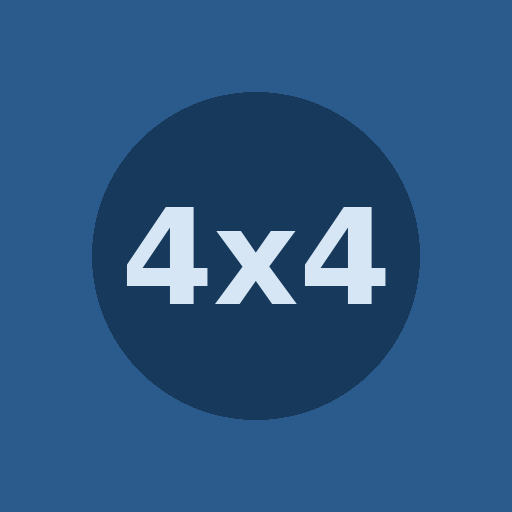
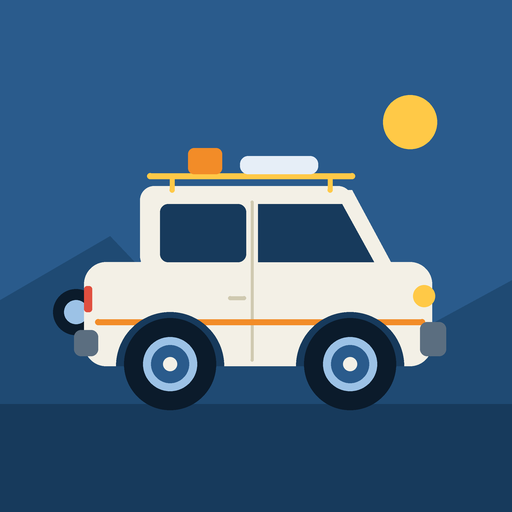
Add files via upload

diff --git a/index.html b/index.html
@@ -49,11 +49,13 @@
   button:active{opacity:0.85;}
   .err{font-size:12px;color:var(--danger);margin:8px 0 0;display:none;}
   .history{border:0.5px solid var(--border);border-radius:12px;overflow:hidden;}
-  .hrow{display:flex;justify-content:space-between;align-items:center;padding:10px 12px;font-size:13px;border-top:0.5px solid var(--border);gap:8px;}
+  .hrow{display:flex;justify-content:space-between;align-items:center;padding:10px 12px;border-top:0.5px solid var(--border);gap:10px;}
   .hrow:first-child{border-top:none;}
-  .hrow .date{color:var(--text-2);flex-shrink:0;}
-  .hrow .km{color:var(--text-2);flex-shrink:0;}
-  .hrow .cons{font-weight:600;flex-shrink:0;}
+  .hrow .main{display:flex;flex-direction:column;gap:2px;min-width:0;flex:1;}
+  .hrow .odo{font-size:16px;font-weight:600;}
+  .hrow .sub{font-size:12px;color:var(--text-2);}
+  .hrow .cons{font-size:14px;font-weight:600;text-align:right;flex-shrink:0;}
+  .hrow .cons.start{font-size:12px;font-weight:500;color:var(--text-2);}
   .empty{font-size:13px;color:var(--text-2);padding:1rem;margin:0;}
   .del-btn{
     width:26px;height:26px;min-width:26px;border-radius:50%;background:transparent;
@@ -115,18 +117,19 @@ function fmt1(n){ return (Math.round(n*10)/10).toLocaleString('es-ES'); }
 
 function persist(){ localStorage.setItem(KEY, JSON.stringify(entries)); }
 
+function fmtDate(s){ const p = s.split('-'); return p.length===3 ? p[2]+'/'+p[1]+'/'+p[0] : s; }
+function fmtKm(n){ return n.toLocaleString('es-ES', {maximumFractionDigits:1}); }
+
 function render(){
   const sorted = [...entries].sort((a,b)=>a.km-b.km);
-  let totalKm=0, totalLiters=0, rows=[];
+  let totalKm=0, totalLiters=0;
 
-  for(let i=1;i<sorted.length;i++){
-    const dKm = sorted[i].km - sorted[i-1].km;
-    const liters = sorted[i].liters;
-    if(dKm>0){
-      totalKm += dKm; totalLiters += liters;
-      rows.push({...sorted[i], dKm, cons:(liters/dKm)*100});
-    }
-  }
+  const rows = sorted.map((e,i)=>{
+    if(i===0) return {...e, first:true};
+    const dKm = e.km - sorted[i-1].km;
+    totalKm += dKm; totalLiters += e.liters;
+    return {...e, dKm, cons:(e.liters/dKm)*100};
+  });
 
   $('km').textContent = totalKm ? fmt1(totalKm)+' km' : '–';
   $('liters').textContent = totalLiters ? fmt1(totalLiters)+' L' : '–';
@@ -135,16 +138,21 @@ function render(){
   const hist = $('history');
   hist.innerHTML = '';
   if(rows.length===0){
-    hist.appendChild($('empty'));
+    hist.innerHTML = '<p class="empty">Todavía no hay repostajes. Añade el primero para calcular el consumo.</p>';
     return;
   }
   rows.reverse().forEach(r=>{
     const el = document.createElement('div');
     el.className='hrow';
-    el.innerHTML = `<span class="date">${r.date}</span>
-      <span class="km">${Math.round(r.dKm)} km · ${fmt1(r.liters)} L</span>
-      <span class="cons">${fmt1(r.cons)} L/100km</span>
-      <button class="del-btn" data-km="${r.km}" title="Eliminar este repostaje">✕</button>`;
+    const detail = r.first
+      ? fmtDate(r.date)+' · '+fmt1(r.liters)+' L'
+      : fmtDate(r.date)+' · +'+fmtKm(r.dKm)+' km · '+fmt1(r.liters)+' L';
+    const cons = r.first
+      ? '<span class="cons start">Punto de partida</span>'
+      : '<span class="cons">'+fmt1(r.cons)+' L/100km</span>';
+    el.innerHTML = '<div class="main"><span class="odo">'+fmtKm(r.km)+' km</span><span class="sub">'+detail.replace(/ (km|L)/g,'\u00a0$1')+'</span></div>'
+      + cons
+      + '<button class="del-btn" data-km="'+r.km+'" title="Eliminar este repostaje" aria-label="Eliminar este repostaje">✕</button>';
     hist.appendChild(el);
   });
 

diff --git a/service-worker.js b/service-worker.js
@@ -14,7 +14,14 @@ self.addEventListener('activate', e => {
 });
 
 self.addEventListener('fetch', e => {
+  if (e.request.method !== 'GET') return;
   e.respondWith(
-    caches.match(e.request).then(res => res || fetch(e.request))
+    fetch(e.request)
+      .then(res => {
+        const copy = res.clone();
+        caches.open(CACHE).then(c => c.put(e.request, copy));
+        return res;
+      })
+      .catch(() => caches.match(e.request))
   );
 });
